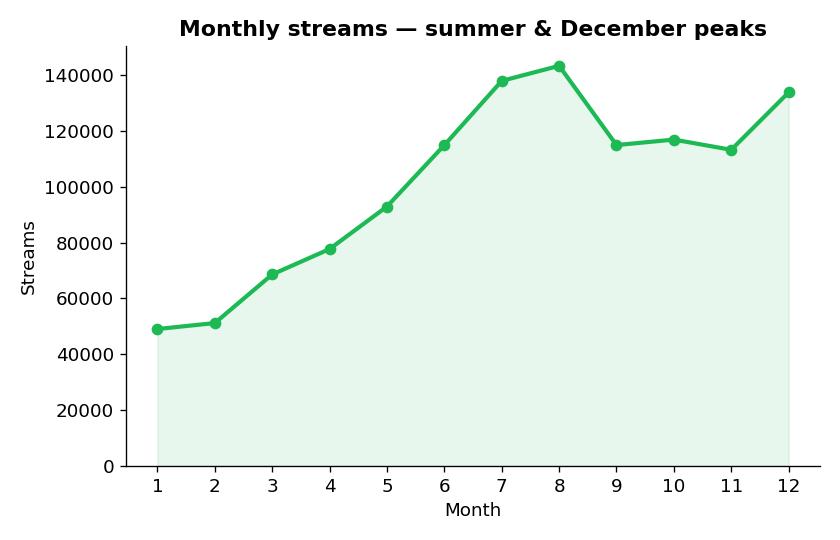
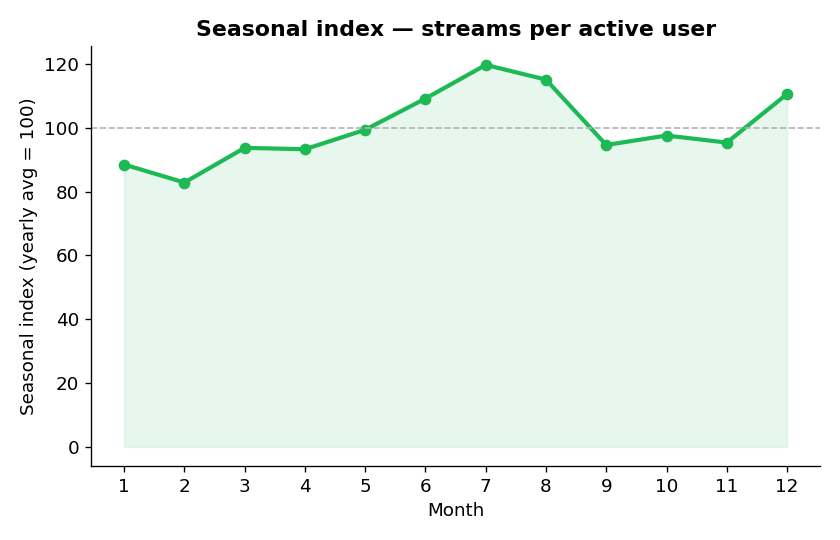
Fix seasonality chart to match its own documented finding
docs/business_questions.md #5 explicitly warns that raw monthly volume is
not a seasonality signal (it's dominated by user-base growth) and that the
real seasonal pattern only appears once normalised by active users per
month (Q9). The chart embedded right under that warning plotted raw counts
anyway, titled "summer & December peaks" — visual evidence for exactly the
naive reading the text argues against.

scripts/make_charts.py now plots the same streams-per-active-user index Q9
computes, so the chart and the finding it illustrates agree. Regenerated
all four README/docs charts from current data (the other three are
unchanged in content, only re-rendered).

diff --git a/scripts/make_charts.py b/scripts/make_charts.py
@@ -61,13 +61,18 @@ def main():
         ax.text(v + 0.5, b.get_y() + b.get_height() / 2, f"{v:.0f}%", va="center", fontweight="bold")
     bare(ax); plt.tight_layout(); plt.savefig(os.path.join(OUT, "skip_rate_by_device.png")); plt.close()
 
-    # 3. monthly seasonality
-    m = f.groupby("month").size()
+    # 3. monthly seasonality — normalised by active users (matches Q9; raw
+    # volume is dominated by user-base growth, not season, see docs/business_questions.md #5)
+    by_month = f.groupby("month").agg(streams=("user_id", "size"), active_users=("user_id", "nunique"))
+    spu = by_month["streams"] / by_month["active_users"]
+    idx = spu / spu.mean() * 100
     fig, ax = plt.subplots(figsize=(7, 4.5))
-    ax.plot(m.index, m.values, marker="o", color=GREEN, linewidth=2.5)
-    ax.fill_between(m.index, m.values, alpha=0.1, color=GREEN)
-    ax.set_title("Monthly streams — summer & December peaks", fontweight="bold")
-    ax.set_xlabel("Month"); ax.set_ylabel("Streams"); ax.set_xticks(range(1, 13)); ax.set_ylim(bottom=0)
+    ax.plot(idx.index, idx.values, marker="o", color=GREEN, linewidth=2.5)
+    ax.fill_between(idx.index, idx.values, alpha=0.1, color=GREEN)
+    ax.axhline(100, color=GREY, linewidth=1, linestyle="--")
+    ax.set_title("Seasonal index — streams per active user", fontweight="bold")
+    ax.set_xlabel("Month"); ax.set_ylabel("Seasonal index (yearly avg = 100)")
+    ax.set_xticks(range(1, 13))
     bare(ax); plt.tight_layout(); plt.savefig(os.path.join(OUT, "monthly_seasonality.png")); plt.close()
 
     # 4. subscription-plan mix (of active users)
